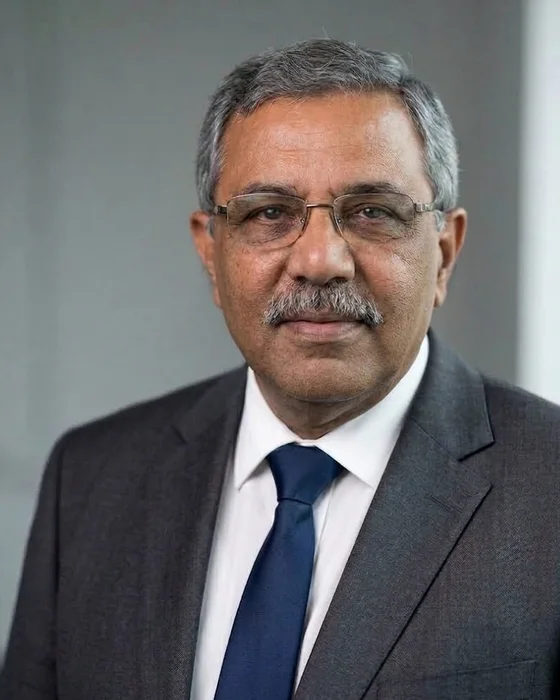
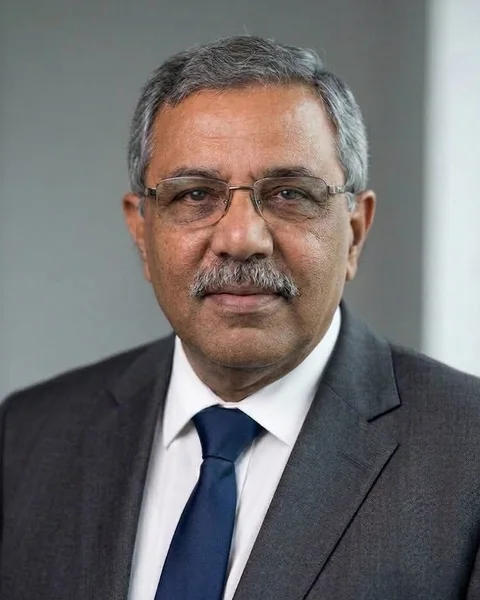
About: tighter crop on Shri Jai Prakash portrait to match the other trustees

diff --git a/JKNF About.dc.html b/JKNF About.dc.html
@@ -149,7 +149,7 @@
       <div class="jknf-trustees" style="margin-top:clamp(44px,5vw,60px);">
 
         <div style="display:flex; flex-direction:column; min-width:0;">
-          <div style="aspect-ratio:4/5; width:100%; min-width:0; overflow:hidden; background:rgba(15,42,92,0.06);"><image-slot id="trustee-1" shape="rect" src="assets/trustee-jai-prakash.webp" placeholder="Portrait — Shri Jai Prakash"></image-slot></div>
+          <div style="aspect-ratio:4/5; width:100%; min-width:0; overflow:hidden; background:rgba(15,42,92,0.06);"><image-slot id="trustee-1" shape="rect" src="assets/trustee-jai-prakash.webp?v=2" placeholder="Portrait — Shri Jai Prakash"></image-slot></div>
           <div style="height:1px; margin:16px 0 12px; background:linear-gradient(to right, #C9A14A, rgba(201,161,74,0));"></div>
           <h3 style="margin:0; font-size:16px; font-weight:700; line-height:1.35;">Shri Jai Prakash</h3>
           <div style="margin-top:6px; font-size:10px; letter-spacing:0.16em; text-transform:uppercase; color:rgba(15,42,92,0.72);">Chairman &amp; Managing Trustee</div>
